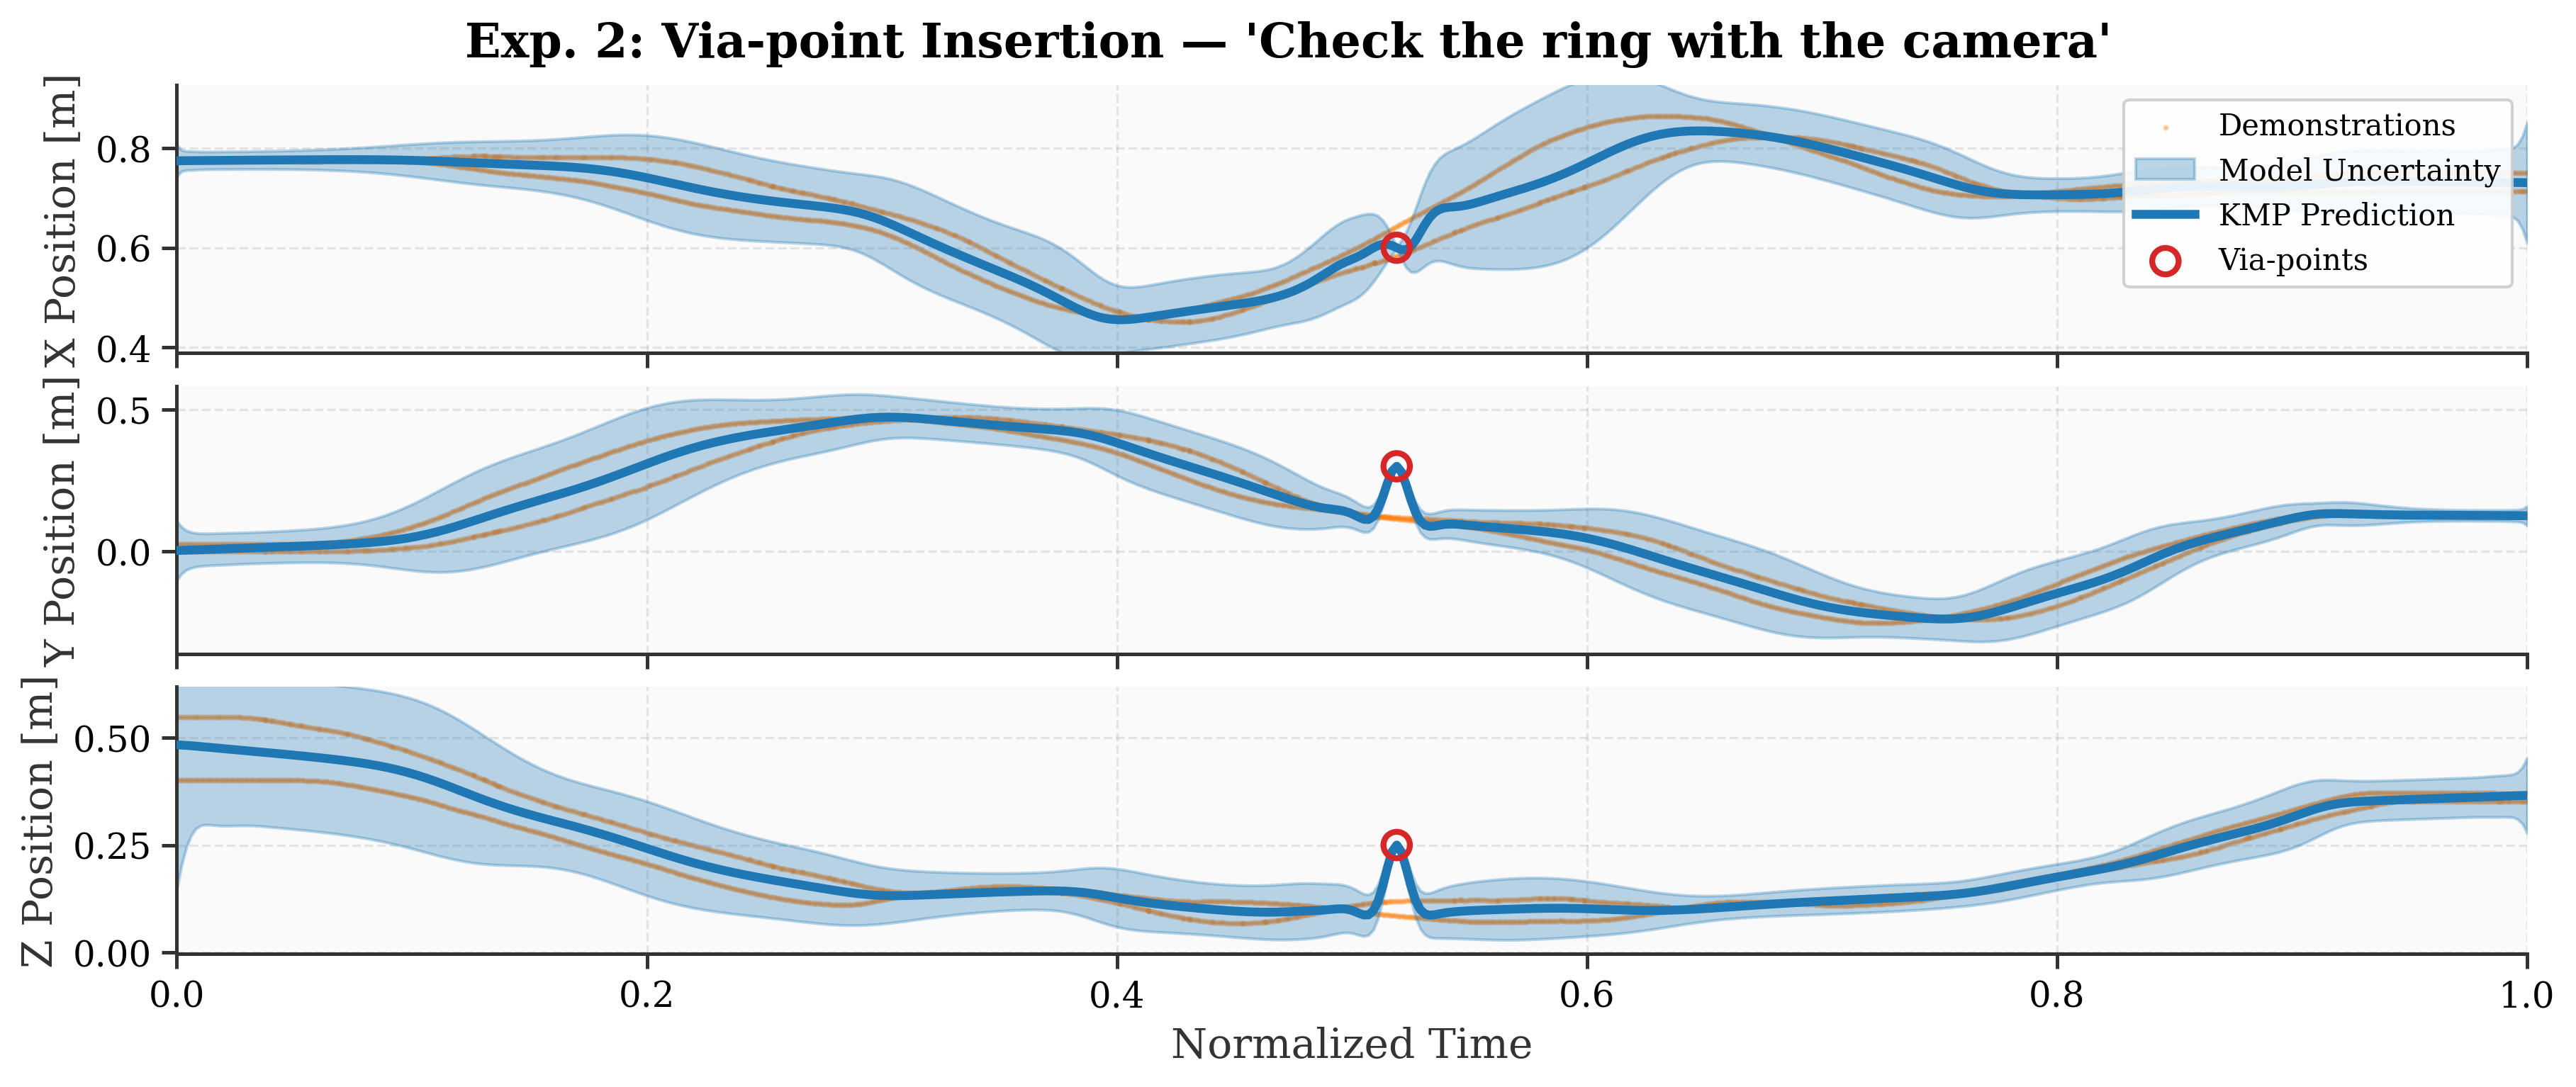
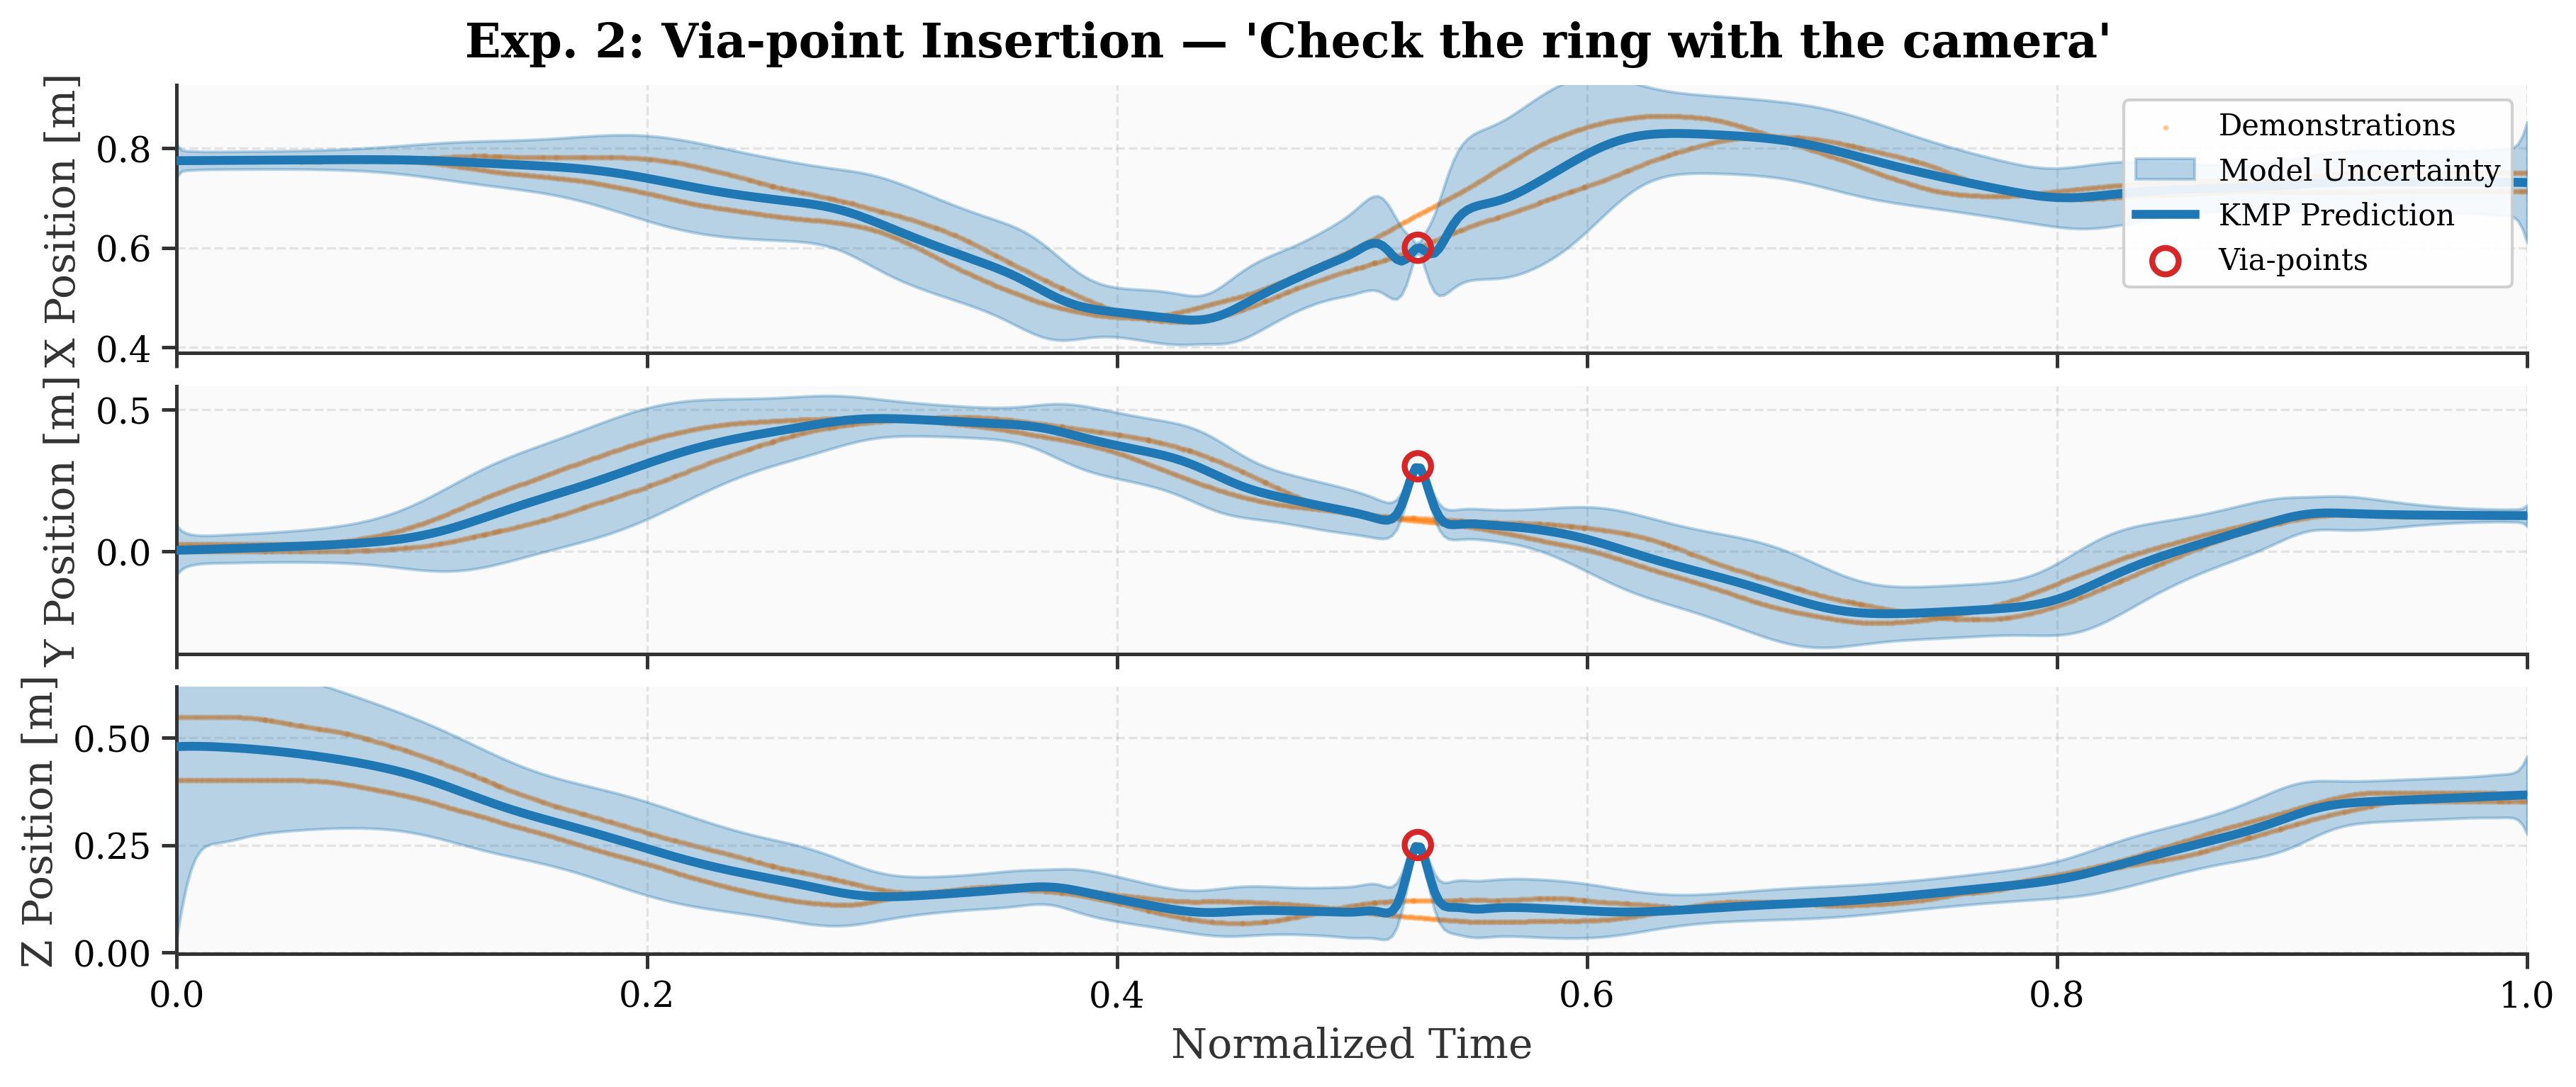
chore: fix typos

diff --git a/irosa/tool_definitions/robot.py b/irosa/tool_definitions/robot.py
@@ -24,53 +24,53 @@ if TYPE_CHECKING:
 
 class SpeedUpRobot(Tool):
     """If you want to speed up the robot, use this function. The default is to speed up
-    for the whole time period, so use 0.0 for adaption_start and 1.0 for adaption_end.
-    :param speed_up_value: percentual speedup of the robot. Default value is 40 for 40 percent.
-    :param adaption_start: Start time from when you want to speed up the robot, ranges from 0.0 to 1.0,
+    for the whole time period, so use 0.0 for adaptation_start and 1.0 for adaptation_end.
+    :param speed_up_value: percentage speedup of the robot. Default value is 40 for 40 percent.
+    :param adaptation_start: Start time from when you want to speed up the robot, ranges from 0.0 to 1.0,
     where 0.0 is the start and 1.0 is the end time.
-    :param adaption_end: Time when you want to stop the speedup of the robot, ranges from 0.0 to 1.0
-    and has to be bigger than the adaption_start.
+    :param adaptation_end: Time when you want to stop the speedup of the robot, ranges from 0.0 to 1.0
+    and has to be bigger than the adaptation_start.
     """
 
     speed_up_value: int
-    adaption_start: float
-    adaption_end: float
+    adaptation_start: float
+    adaptation_end: float
 
     def execute(self, kmp: KMPWrapper) -> str:
         if kmp.robot is None:
             raise ToolArgsValidationError("No robot configured for speed modulation")
         try:
-            kmp.robot.change_predicting_frequency(-self.speed_up_value, self.adaption_start, self.adaption_end)
+            kmp.robot.change_predicting_frequency(-self.speed_up_value, self.adaptation_start, self.adaptation_end)
         except Exception as e:
             raise ToolArgsValidationError(f"Error speeding up robot: {e}") from e
         return (
             f"IROSA: Increased robot speed by {self.speed_up_value} percent"
-            f" at the range {self.adaption_start} - {self.adaption_end}"
+            f" at the range {self.adaptation_start} - {self.adaptation_end}"
         )
 
 
 class SlowDownRobot(Tool):
     """If you want to slow down the robot, use this function. The default is to slow down
-    for the whole time period, so use 0.0 for adaption_start and 1.0 for adaption_end.
-    :param slow_down_value: percentual slowdown of the robot, default value is 80. Only values > 0 are allowed.
-    :param adaption_start: Start time from when you want to slow down the robot,
+    for the whole time period, so use 0.0 for adaptation_start and 1.0 for adaptation_end.
+    :param slow_down_value: percentage slowdown of the robot, default value is 80. Only values > 0 are allowed.
+    :param adaptation_start: Start time from when you want to slow down the robot,
         ranges from 0.0 to 1.0, where 0.0 is the start and 1.0 is the end time.
-    :param adaption_end: Time when you want to stop the slowdown of the robot,
-        ranges from 0.0 to 1.0 and has to be bigger than the adaption_start.
+    :param adaptation_end: Time when you want to stop the slowdown of the robot,
+        ranges from 0.0 to 1.0 and has to be bigger than the adaptation_start.
     """
 
     slow_down_value: int
-    adaption_start: float
-    adaption_end: float
+    adaptation_start: float
+    adaptation_end: float
 
     def execute(self, kmp: KMPWrapper) -> str:
         if kmp.robot is None:
             raise ToolArgsValidationError("No robot configured for speed modulation")
         try:
-            kmp.robot.change_predicting_frequency(self.slow_down_value, self.adaption_start, self.adaption_end)
+            kmp.robot.change_predicting_frequency(self.slow_down_value, self.adaptation_start, self.adaptation_end)
         except Exception as e:
             raise ToolArgsValidationError(f"Error slowing down the robot: {e}") from e
         return (
             f"IROSA: Decreased robot speed by {self.slow_down_value} percent"
-            f" at the range {self.adaption_start} - {self.adaption_end}"
+            f" at the range {self.adaptation_start} - {self.adaptation_end}"
         )

diff --git a/irosa/robots/robot.py b/irosa/robots/robot.py
@@ -80,36 +80,36 @@ class Robot(abc.ABC):
     def on_viapoints_removed(self, positions_xyz: list[list]) -> None:
         """Called when via-points are removed."""
 
-    def change_predicting_frequency(self, percentual_factor: int, adaption_start: float, adaption_end: float) -> None:
+    def change_predicting_frequency(self, percentage_factor: int, adaptation_start: float, adaptation_end: float) -> None:
         """Change execution speed for a time segment.
 
         Increasing delta_t slows the robot; decreasing delta_t speeds it up.
         If set to 50%, delta_t is increased by 1.5x (slowing down).
         If set to -50%, delta_t is decreased by 0.5x (speeding up).
 
-        :param percentual_factor: Speed change in percent (positive=slower, negative=faster)
-        :param adaption_start: Start time (0.0-1.0)
-        :param adaption_end: End time (0.0-1.0)
+        :param percentage_factor: Speed change in percent (positive=slower, negative=faster)
+        :param adaptation_start: Start time (0.0-1.0)
+        :param adaptation_end: End time (0.0-1.0)
         """
         if len(self.predicting_frequency) == 0:
             raise RuntimeError("The predicting frequency was not set, please set it first")
 
-        factor = (abs(percentual_factor) + 100) / 100
-        if percentual_factor < 0:
+        factor = (abs(percentage_factor) + 100) / 100
+        if percentage_factor < 0:
             factor = 1 / factor
 
-        if not (0.0 <= adaption_start <= 1.0):
-            raise ValueError("adaption_start has to be a value between 0.0 and 1.0")
-        if not (0.0 <= adaption_end <= 1.0):
-            raise ValueError("adaption_end has to be a value between 0.0 and 1.0")
-        if adaption_end <= adaption_start:
-            raise ValueError("adaption_end has to be a larger value than adaption_start")
+        if not (0.0 <= adaptation_start <= 1.0):
+            raise ValueError("adaptation_start has to be a value between 0.0 and 1.0")
+        if not (0.0 <= adaptation_end <= 1.0):
+            raise ValueError("adaptation_end has to be a value between 0.0 and 1.0")
+        if adaptation_end <= adaptation_start:
+            raise ValueError("adaptation_end has to be a larger value than adaptation_start")
 
         new_pred_frequency = self.predicting_frequency.copy()
         for idx, val_time in enumerate(self.timesteps):
-            if val_time < adaption_start:
+            if val_time < adaptation_start:
                 continue
-            if val_time > adaption_end:
+            if val_time > adaptation_end:
                 break
             new_pred_frequency[idx] = abs(self.predicting_frequency[idx] * factor)
 

diff --git a/examples/experiment_speed.py b/examples/experiment_speed.py
@@ -104,11 +104,11 @@ def run():
 
     # Step 4: Apply speed modulation (what the LLM tool call does)
     # SlowDownRobot scales dt by factor (|gamma|+100)/100 = 1.5 for gamma=50
-    print(f"\nTool call: SlowDownRobot(slow_down_value=50, adaption_start={t_box:.2f}, adaption_end={t_station:.2f})")
+    print(f"\nTool call: SlowDownRobot(slow_down_value=50, adaptation_start={t_box:.2f}, adaptation_end={t_station:.2f})")
     tool = SlowDownRobot(
         slow_down_value=50,
-        adaption_start=round(t_box, 2),
-        adaption_end=round(t_station, 2),
+        adaptation_start=round(t_box, 2),
+        adaptation_end=round(t_station, 2),
     )
     result = tool.execute(model)
     print(f"Result: {result}")

diff --git a/tests/test_tool_definitions.py b/tests/test_tool_definitions.py
@@ -46,8 +46,8 @@ def test_tool_schema_generation():
     schema = SpeedUpRobot.to_openai_tool()
     params = schema["function"]["parameters"]
     assert "speed_up_value" in params["properties"]
-    assert "adaption_start" in params["properties"]
-    assert "adaption_end" in params["properties"]
+    assert "adaptation_start" in params["properties"]
+    assert "adaptation_end" in params["properties"]
 
 
 def test_slow_down_schema():

diff --git a/irosa/tool_definitions/kmp.py b/irosa/tool_definitions/kmp.py
@@ -38,7 +38,7 @@ class AddViaPointsAtTime(Tool):
     """If you want to add several via-points at specific times, use this function.
     Add multiple via-points at specific times with specific positions.
     :param input_values: List of floats representing the times of the viapoints
-    :param output_values: List of lists of floats representing the positions of the viapoint
+    :param output_values: List of lists of floats representing the positions of the viapoints
     """
 
     input_values: list[float]

diff --git a/README.md b/README.md
@@ -71,7 +71,7 @@ User Command (natural language)
 
 | Tool | Paper Section | Purpose | Parameters |
 |------|--------------|---------|------------|
-| `SpeedUpRobot` / `SlowDownRobot` | IV-D, Eq. 3-4 | Temporal trajectory adjustment | speed_value, adaption_start, adaption_end |
+| `SpeedUpRobot` / `SlowDownRobot` | IV-D, Eq. 3-4 | Temporal trajectory adjustment | speed_value, adaptation_start, adaptation_end |
 | `AddViaPointsAtTime` | IV-D | Spatial trajectory correction via KMP via-points | input_values (times), output_values (positions) |
 | `AddRepulsionPoint` | IV-D, Eq. 5-6 | Obstacle avoidance via SDF-based correction | position, radius/dimensions |
 | `GetViaPoints` / `RemoveViaPoints*` | - | Via-point management | - |
@@ -203,7 +203,7 @@ model = KMPWrapper(demonstration_path="data/demonstrations.npz", force_retrain=T
 
 # Speed modulation: slow down between t=0.55 and t=0.72
 model.robot.change_predicting_frequency(
-    percentual_factor=50, adaption_start=0.55, adaption_end=0.72
+    percentage_factor=50, adaptation_start=0.55, adaptation_end=0.72
 )
 
 # Via-point insertion: add waypoint at camera position